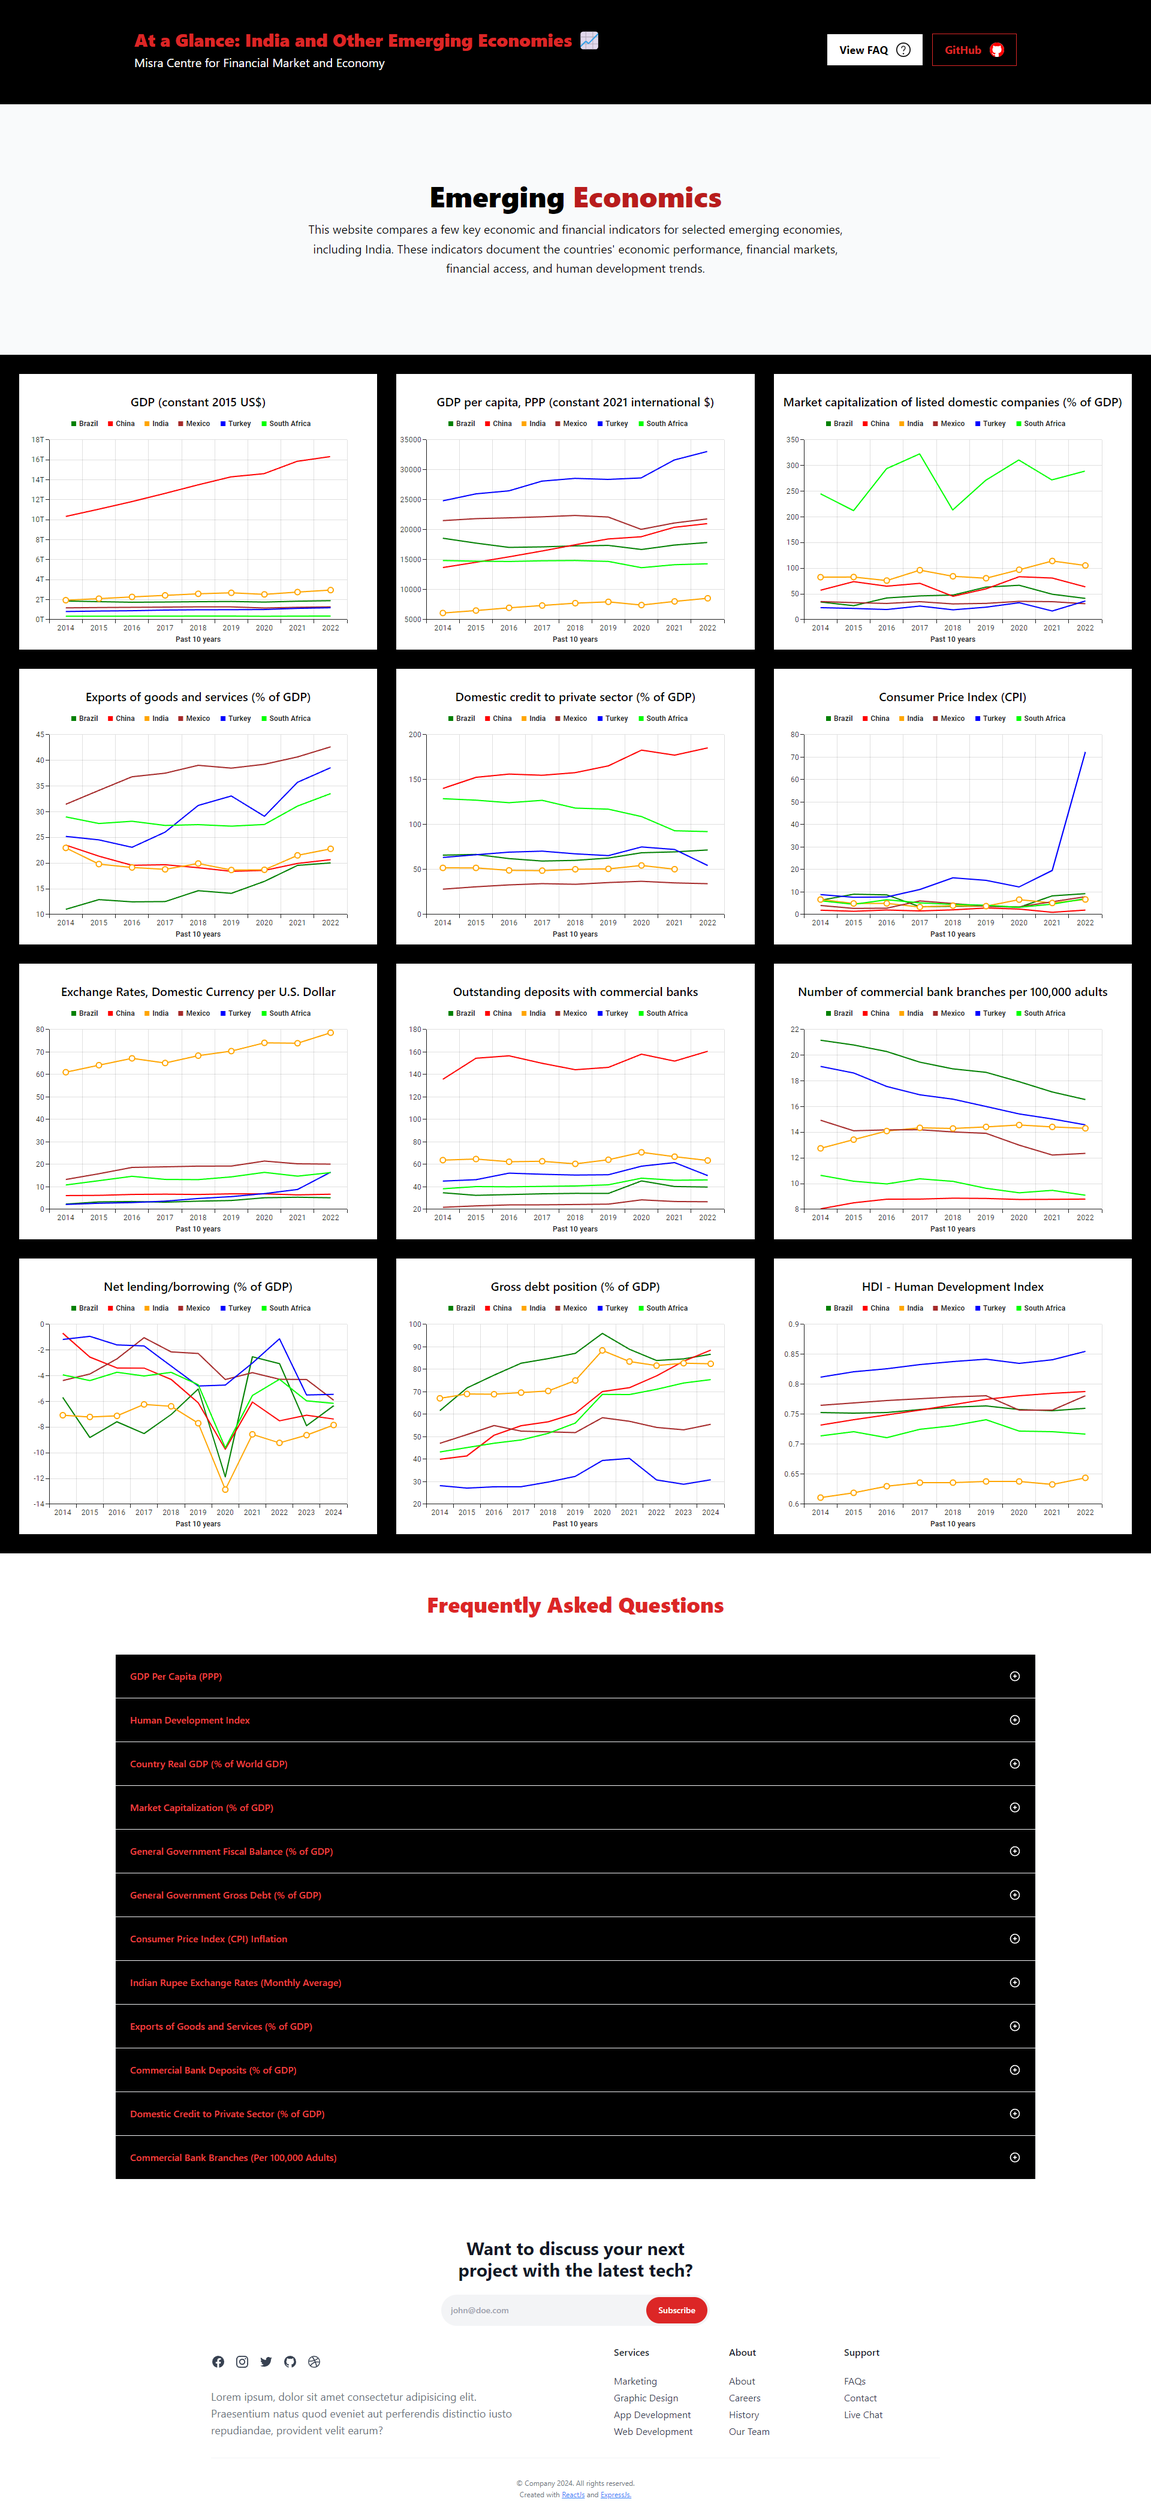
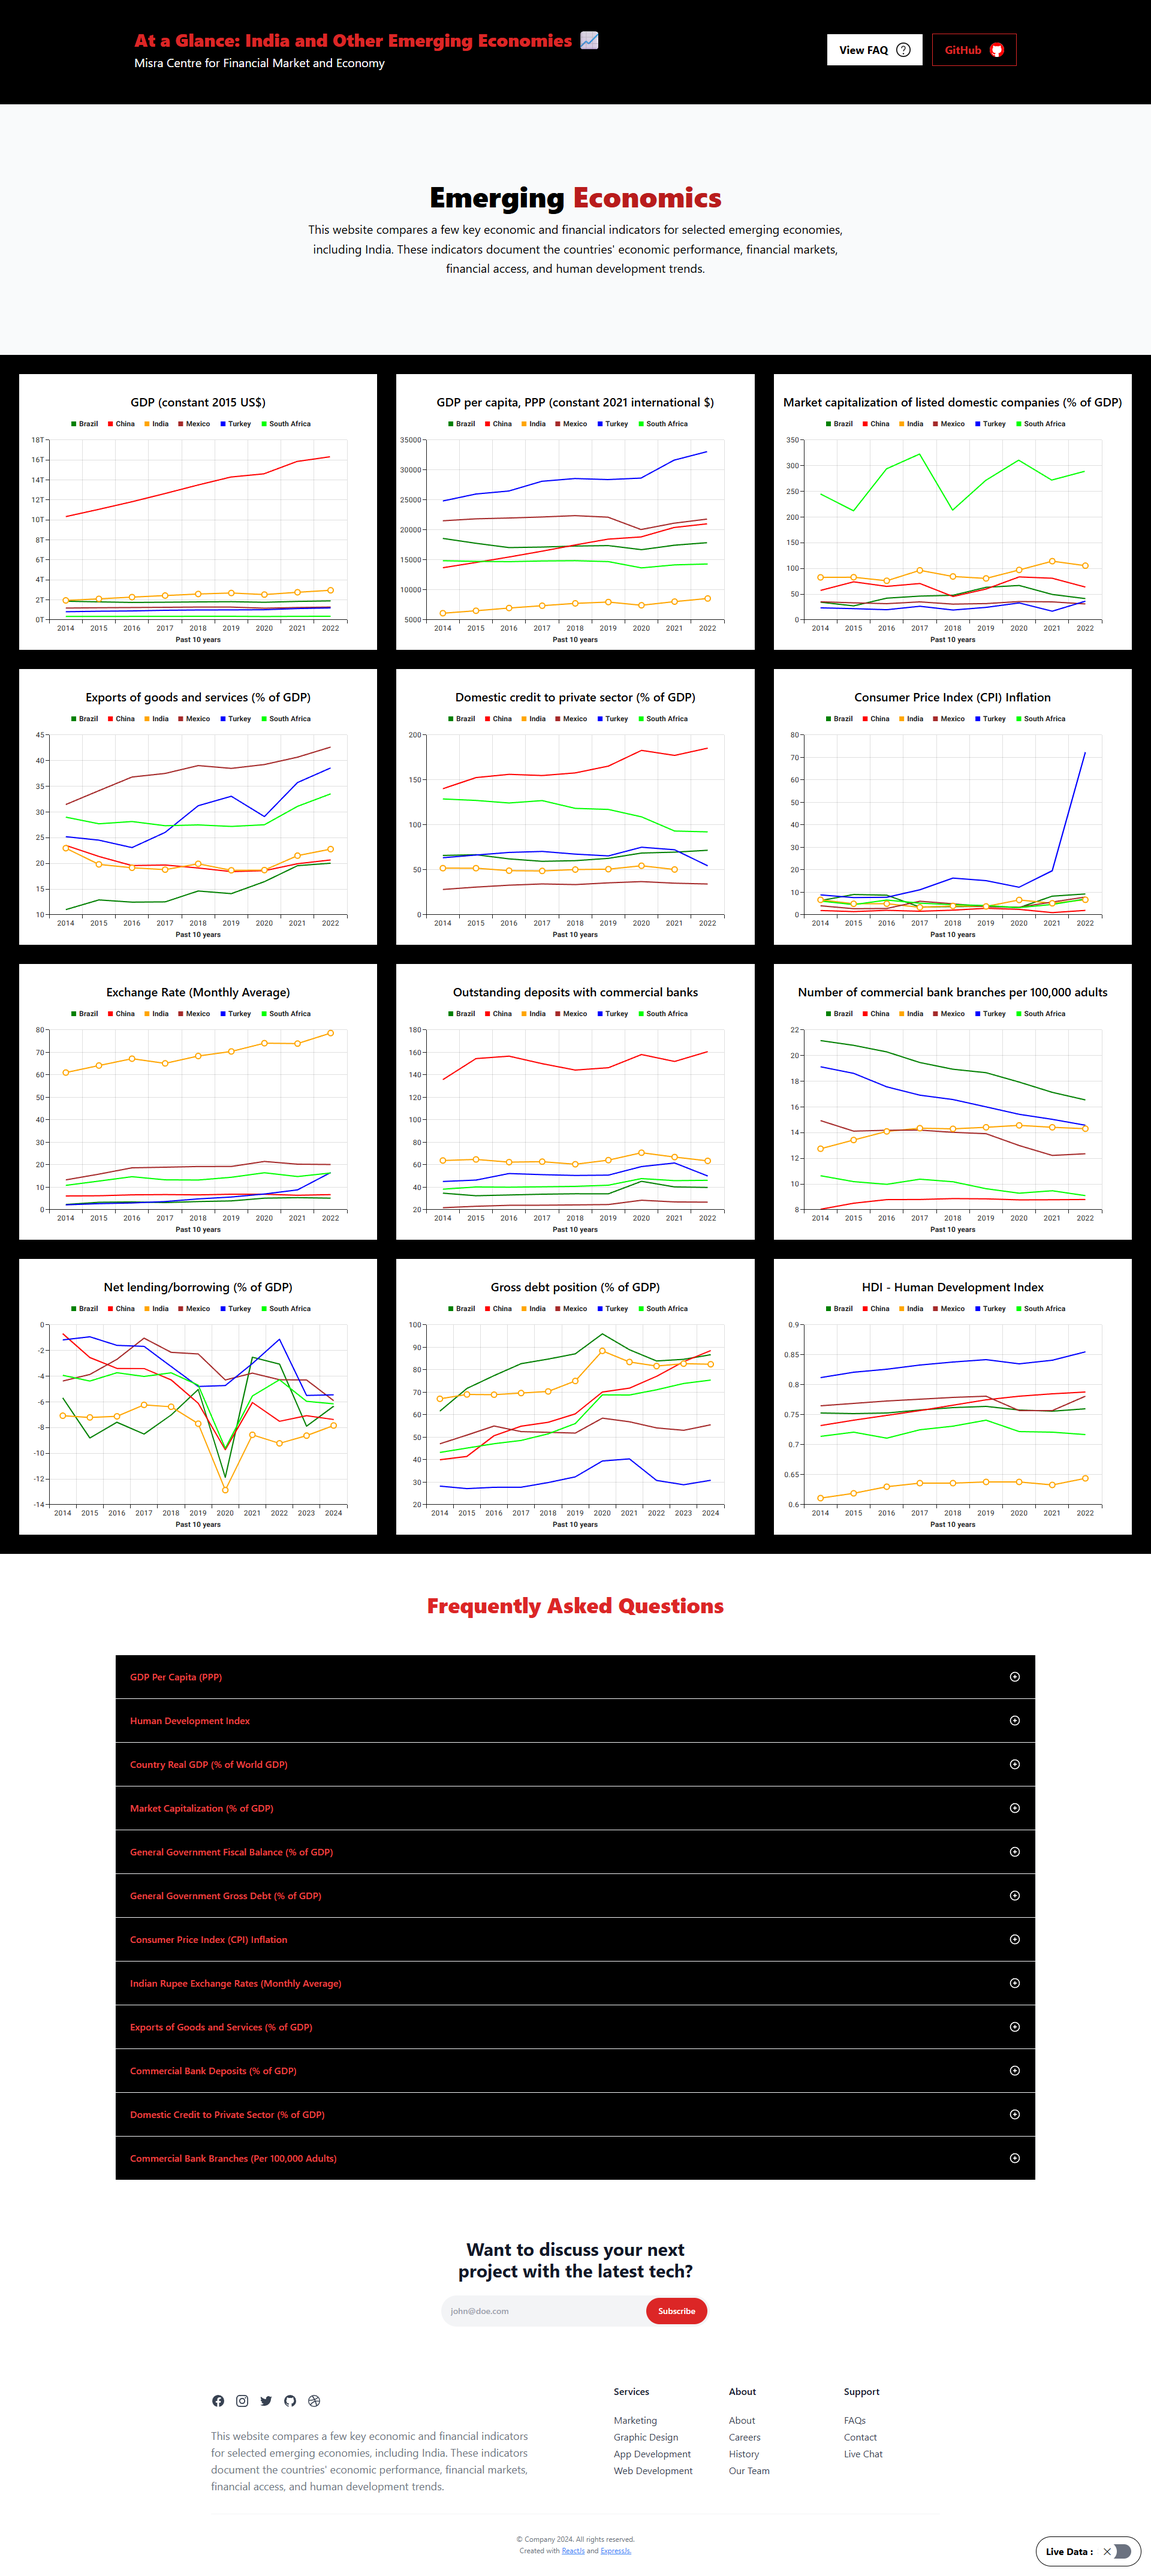
ready for production

diff --git a/backend/server.js b/backend/server.js
@@ -23,7 +23,7 @@ app.use(express.json());
 
 app.use("/", express.static("dist"));
 
-app.post("/worldbank", (req, res) => {
+app.post("/api/worldbank", (req, res) => {
   const indicator = req.body.indicator;
   const isLiveData = req.body.isLiveData || false;
 
@@ -65,7 +65,7 @@ app.post("/worldbank", (req, res) => {
   }
 });
 
-app.post("/worldbankgroup", (req, res) => {
+app.post("/api/worldbankgroup", (req, res) => {
   const dataset = req.body.dataset;
   const indicator = req.body.indicator;
   const isLiveData = req.body.isLiveData || false;
@@ -111,7 +111,7 @@ app.post("/worldbankgroup", (req, res) => {
   }
 });
 
-app.post("/imf", (req, res) => {
+app.post("/api/imf", (req, res) => {
   const indicator = req.body.indicator;
   const isLiveData = req.body.isLiveData || false;
 
@@ -149,7 +149,7 @@ app.post("/imf", (req, res) => {
   }
 });
 
-app.post("/undp", (req, res) => {
+app.post("/api/undp", (req, res) => {
   const indicator = req.body.indicator;
   const isLiveData = req.body.isLiveData || false; 
   if (!isLiveData) {
@@ -177,6 +177,13 @@ app.post("/undp", (req, res) => {
         res.send({ code: 0, response: err });
       });
   }
+});
+
+app.get("/api/health", (req, res) => {
+  res.send({
+    code: 1,
+    response: "Health check successful",
+  });
 });
 
 app.listen(PORT, () => {

diff --git a/frontend/vite.config.js b/frontend/vite.config.js
@@ -1,5 +1,24 @@
 import { defineConfig } from 'vite'
 import react from '@vitejs/plugin-react'
+
 export default defineConfig({
-  plugins: [react()], 
+  plugins: [react()],
+  server: {
+    port: 80,
+    strictPort: true,
+    host: true,
+    proxy: {
+      '/api': {
+        target: 'http://localhost:5000',
+        changeOrigin: true,
+        secure: false,
+        rewrite: (path) => path.replace(/^\/api/, '/api')
+      }, 
+    }
+  },
+  build: {
+    outDir: 'dist',
+    sourcemap: false
+  },
+  base: './',
 })

diff --git a/frontend/src/components/main/Graphs.jsx b/frontend/src/components/main/Graphs.jsx
@@ -171,7 +171,7 @@ export default function Graphs() {
 
   return (
     <div>
-      <div className="fixed right-4 bottom-4 bg-white/70 py-3 px-4 rounded-full border border-black">
+      <div className="fixed right-4 bottom-4 bg-white/70 py-3 px-4 rounded-full border border-black z-50">
         <div>
           <Switch checked={liveData} onChange={setLiveData} />
         </div>

diff --git a/frontend/src/components/main/Switch.jsx b/frontend/src/components/main/Switch.jsx
@@ -2,7 +2,7 @@ import React from "react";
 
 export default function Switch({ checked, onChange, className = "" }) {
   return (
-    <div className="flex justify-center items-center relative">
+    <div className="flex justify-center items-center relative z-50">
       <h1 className="text-center me-2 font-bold">
         Live Data : 
       </h1>

diff --git a/frontend/src/Constant.js b/frontend/src/Constant.js
@@ -1,2 +1,2 @@
-export const BASE_URL = "http://localhost:5000"; 
-// export const BASE_URL = "https://emerging-economics.dreel.co";
+export const BASE_URL = "/api"; 
+// export const BASE_URL = "https://emerging-economics.dreel.co/api";
